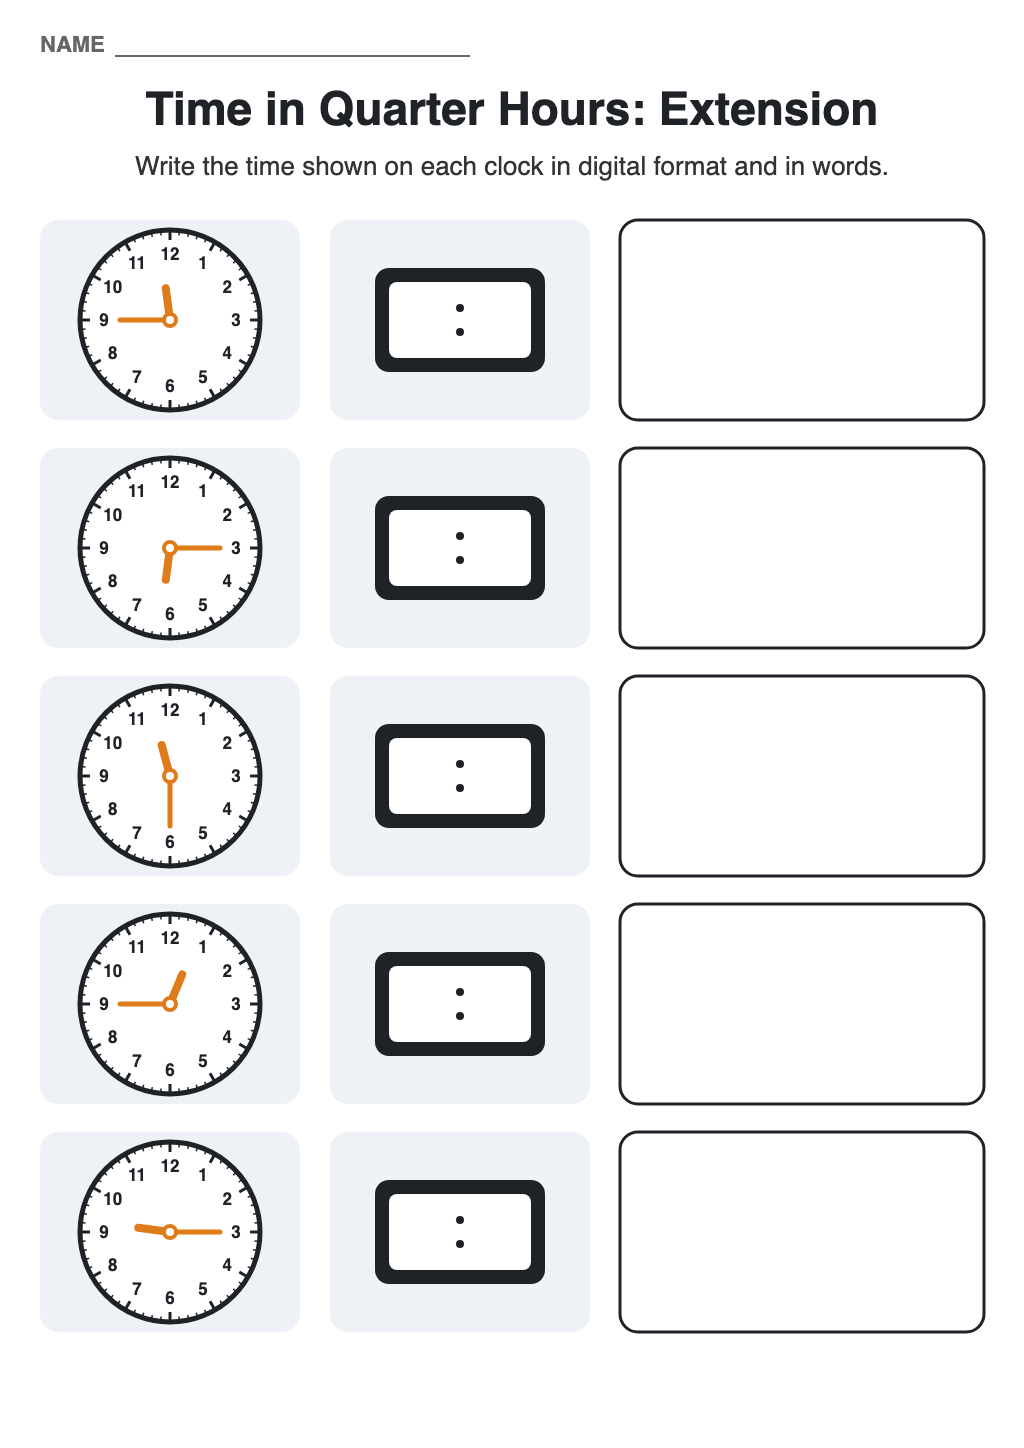
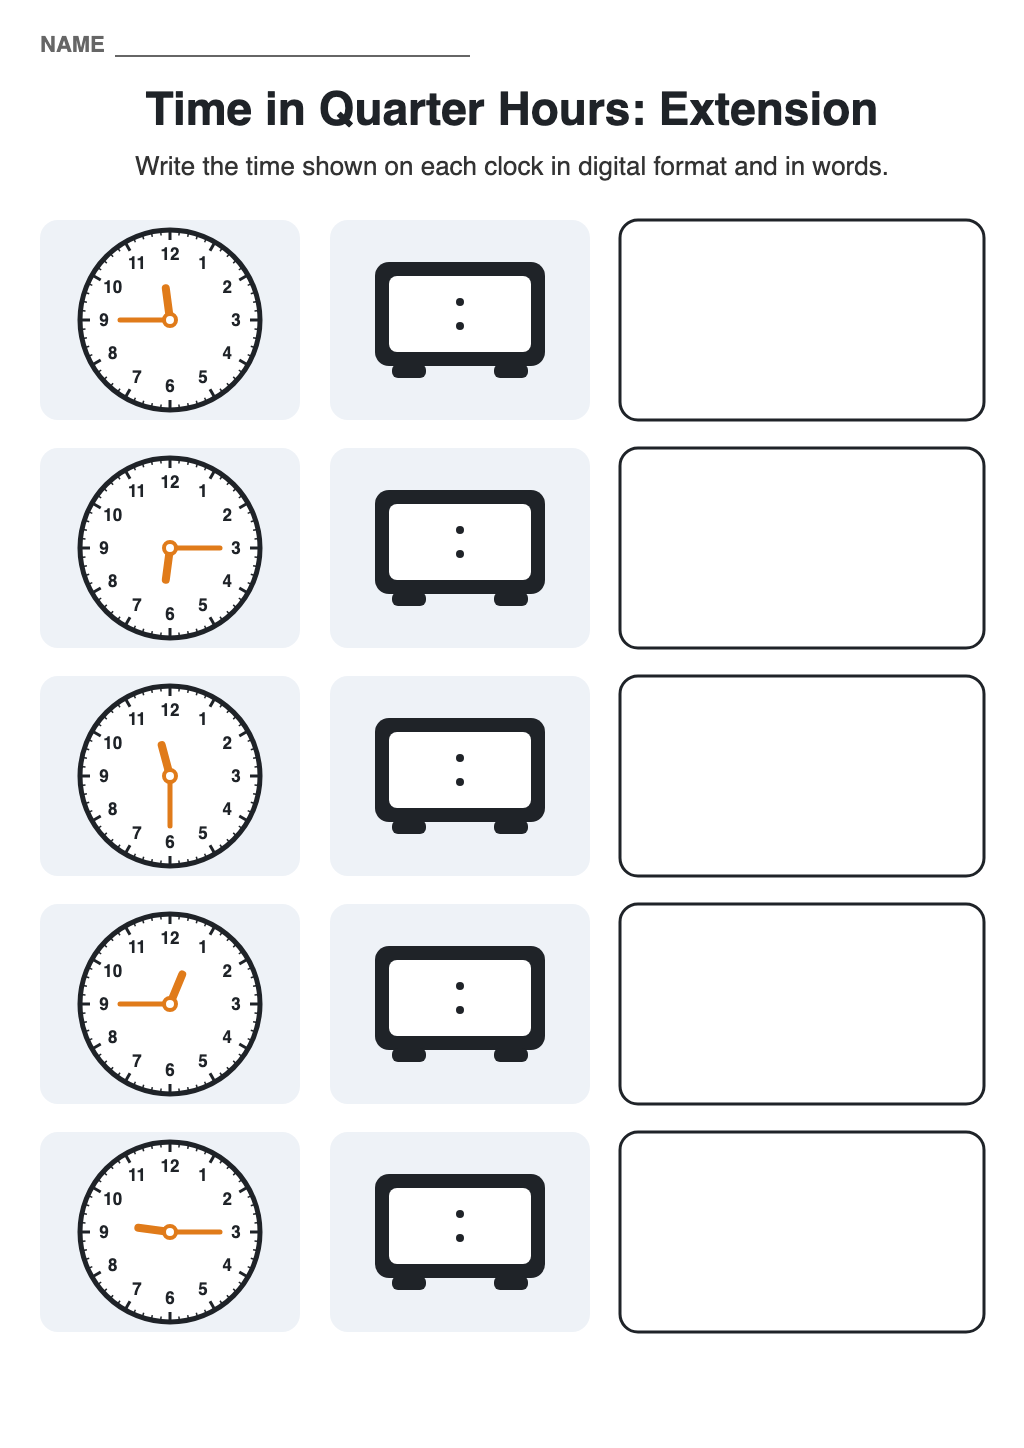
Add redrawn worksheet for comparison, add feet to digital clocks
Claude-Session: https://claude.ai/code/session_01C19qvcYRfjDHpgap8Ugmjw

diff --git a/analog-to-digital.html b/analog-to-digital.html
@@ -59,6 +59,12 @@
       <p>A second sheet with five new times for students who finish early. It includes quarter to 12 and quarter to 1, where the hour hand sits just before the 12 or the 1, which catches out students who read the hour hand too quickly.</p>
       <a class="btn" href="analog-to-digital/extension.png" download="analog-to-digital-extension.png">Download extension</a>
     </li>
+    <li class="step">
+      <h2>Worksheet, redrawn</h2>
+      <a href="analog-to-digital/worksheet-redrawn.png" target="_blank"><img src="analog-to-digital/worksheet-redrawn.png" alt="Redrawn Time in Quarter Hours worksheet in the same style as the extension sheet: five analog clocks, each with a blank digital clock and a blank box for the words"></a>
+      <p>The same five-clock worksheet redrawn to match the extension sheet, so the two print as a matching pair.</p>
+      <a class="btn" href="analog-to-digital/worksheet-redrawn.png" download="analog-to-digital-worksheet-redrawn.png">Download redrawn worksheet</a>
+    </li>
   </ol>
 </div>
 <script src="site.js"></script>
